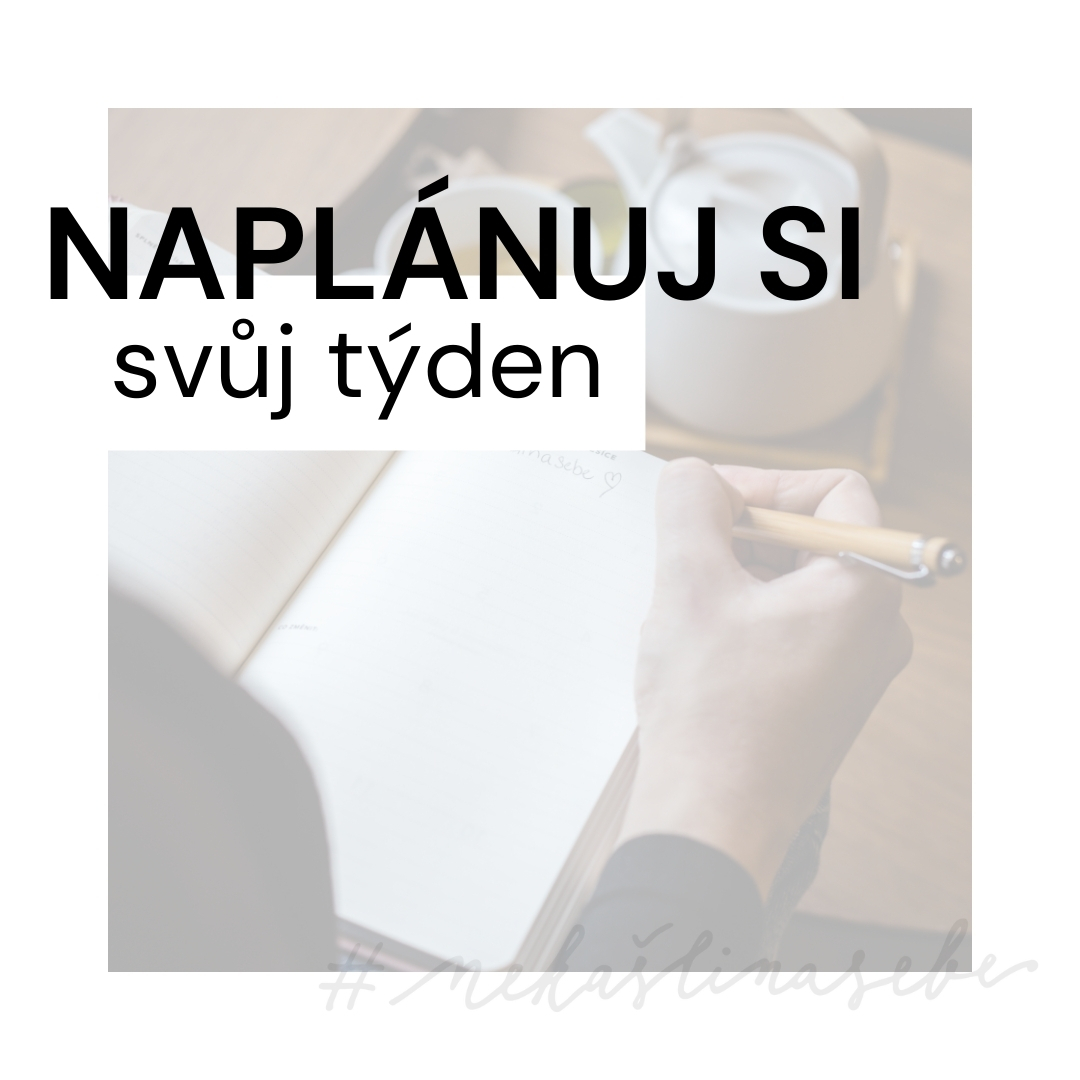
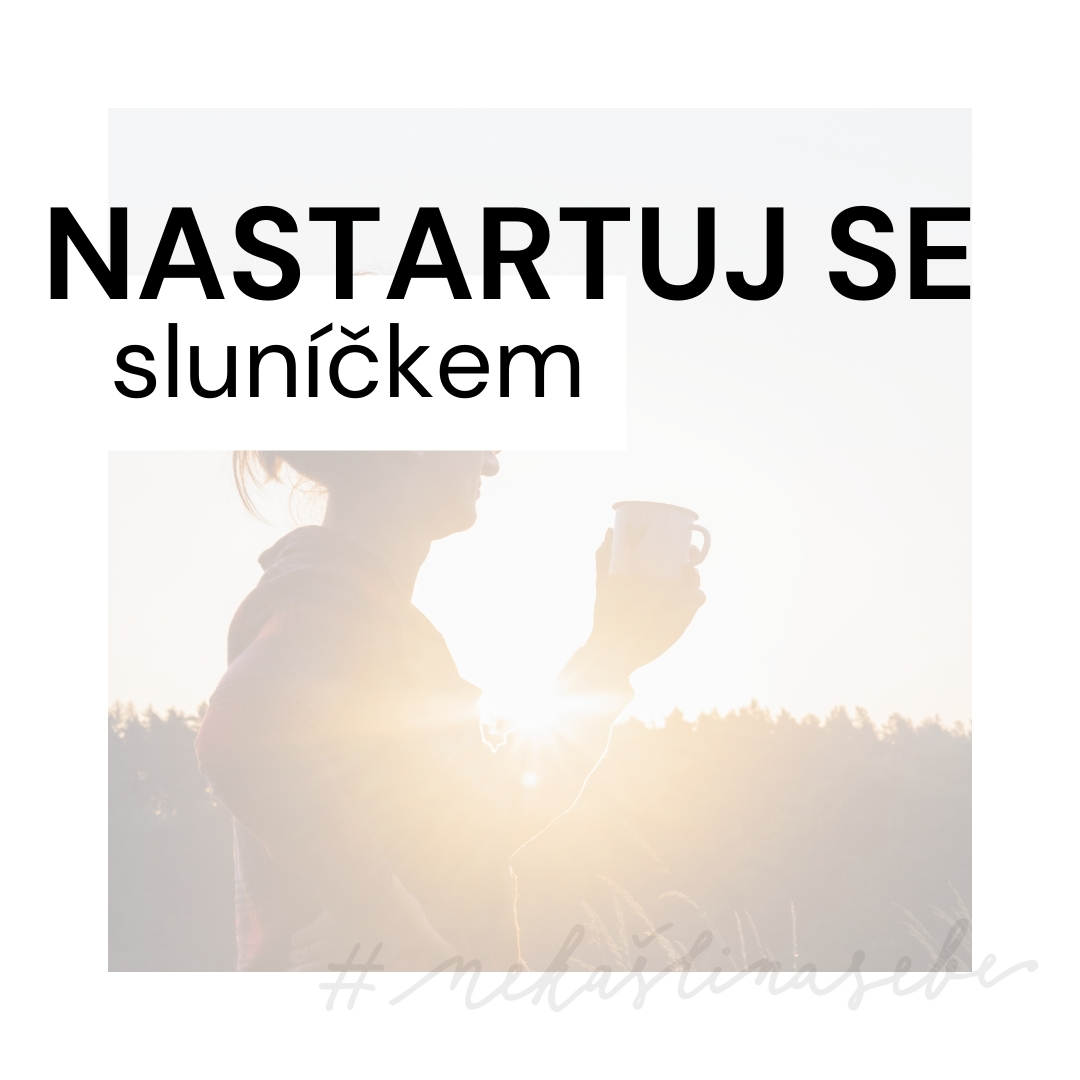
tip1

diff --git a/tips/24-17/tip1.html b/tips/24-17/tip1.html
@@ -81,11 +81,8 @@
         <div class="row mb-8 align-items-center">
           <div class="col-md-8,9" data-aos="fade-up">
             <h2>1.tip #nekaslinasebe</h2>
-            <p> Při pondělním tipu #nekaslinasebe si <b>společně naplánujeme týden</b>. Já vím. Někdy není úplně zábavné
-              si sednout a sepsat si vše, co chceme stihnout v aktuálním týdnu. Náš mozek i tělo má plán rád. Protože
-              <b>když ví, co ho čeká, dokáže lépe odhadnout, kolik energie bude potřebovat</b>. Takže tě dnes vyzívám,
-              ať si k sobě vezmeš papír/notebook/Ipad a kalendář. Zkus si sepsat, co tě v následujícím týdnu čeká.
-              <b>Nezapomeň ani na odpočinek a zabookuj si v kalendáři rovnou čas i pro sebe.</b>
+            <p> Dnešní tip #nekaslinasebe tě podpoří v <b>nastartování se ranním sluníčkem</b>. Vystavení se sluníčku na pár minut má skvělé účinky na naše <b><a href="https://www.ncbi.nlm.nih.gov/pmc/articles/PMC6751071/"
+              target="_blank">fyzické i psychické zdraví</a></b>. Postará se nám o to malinká struktura v našem mozku “suprachiasmatic nuclei”, která má na starost cirkadiánní rytmy. Je to párová struktura v našem hypothalamu. Přezdívá se jí “central master-clock”.  Ta se poté postará o to, že se ti <b>zlepší nálada, emoce a pozornost. Světlo přímo ovlivňuje naši náladu, spánek, naši schopnost probudit se a soustředit se, hladiny hormonů, imunitu a naši schopnost zvládat stres.</b> Je to opět jeden z “nástrojů”, které ti pomůžou k lepšímu fungování, ať už fyzicky, tak i psychicky. Tak si to užij.  
             </p>
             <p></p>
           </div>
@@ -103,33 +100,15 @@
                 <p class="mb-4"><span class="text-muted">Pokud máš:</span></p>
 
                 <div class="mb-5">
-                  <p><b>1 minutku</b>: Představ si v hlavě svůj týden a zapiš si do jednotlivých dní <b>nejdůležitější
-                      věci, které určitě potřebuješ stihnout</b> a přes které nejede vlak. </p>
-                  <p><b>5 minut</b>: Naplánuj si <b>přesně a konkrétně, co chceš a potřebuješ udělat každý den v
-                      týdnu</b>. Zamysli se, kolik času na dané věci (opravdu) potřebuješ. Pokud to u některých věcí
-                    jde, můžeš si k nim <b>přidat 5-10 minut navíc jako rezervu</b>. Když skončíš dřív, tím lépe. Až to
-                    budeš mít, připrav si 3 různé barvy. Zkusíme si z to-do listu na den udělat <b>trojbarevný
-                      to-do</b>. První barvou, třeba červenou, si označ věci, které musíš ve dni stihnout. Druhou
-                    barvou, třeba modrou, si označ věci, které by byly dobré ve dni stihnout. Když je ale nestihneš,
-                    protože ti do toho něco přijde nebo nebudeš mít energii, nic tak velkého se nestane. Třetí barvou,
-                    třeba zelenou, si označ věci, které můžeš ve dni udělat, ale vůbec nemusíš. Věci, které můžeš
-                    kdykoliv přesunout na jiný den nebo týden.</p>
-                  <p><b>15 minut</b>: Následuj 5ti minutový tip a <b>přidej si do každého dne 1 min, 5 min nebo 15 min
-                      pro sebe na své vlastní #nekaslinasebe</b>. Když mozek a tělo přesně ví, kdy si bude moct
-                    odpočinout (a ještě k tomu to vidí v týdenním/denním plánu), lépe pracuje s distribucí energie. </p>
+                  <p><b>1 minutku</b>: Až vstaneš, zkus jít na alespoň minutku ven, na terasu nebo na balkón a buď na sluníčku. </p>
+                  <p><b>5 minut</b>: Máš 5 minutek? Super. Projdi se na sluníčku, lehni si, zacvič si lehkou jógu nebo jen tak buď.</p>
+                  <p><b>15 minut</b>: Projdi se, napiš si deník, vypij si v klidu kávu nebo si jen tak lelkuj po ránu na sluníčku.</p>
                 </div>
               </div>
             </div>
           </div>
           <div class="col-md-12 ml-auto mt-3">
-            <p>PS: Na instagram mi přišel <b>zajímavý dotaz</b> ohledně tipů #nekaslinasebe: <b>“Je potřeba po
-                provedení tipu z výsledků dělat nějaké závěry, nebo k čemu tipy přesně slouží?”</b> Moje odpověď je
-              jednoduchá. <b>Není potřeba dělat závěry ani nic podobného.</b> Není potřeba na sebe tlačit. Chápu, že
-              je naše společnost aktuálně zaměřená na výkonnost a že přirozeně očekáváme “výstupy” z naší práce. Tipy
-              #nekaslinasebe se právě proti tomuto snaží bojovat. Jsou tu pro to, abychom se na chvilku <b>zastavili a
-                mysleli pár minutek na sebe. Bez souzení a hodnocení, jestli se hned (ne)cítíme lépe, jestli nám to
-                (ne)pomohlo</b> atd. Sebepéče a #nekaslinasebe není <b>sprint, je to maraton</b>. Budu ráda za další
-              zpětné vazby a názory. Hezké pondělí, Terka.</p>
+            <p><b>PS:</b> Dávej si <b>pozor na koukání se přímo do sluníčka!</b> Nezapomeň se o sebe postarat, vzít si brýle. Při přímém sluníčku stačí opravdu pár minut. Pokud je pod mrakem, doporučuje se být na sluníčku cca 10-15 minut. Rannímu sluníčku zdar. Zdravím, Terka. </p>
           </div>
           <div class="col-md-12 ml-auto mt-3">
             <p> Vše, co tu vidíš, děláme <b>zadarmo</b>. Kdybys nás chtěl/a podpořit, budeme rádi, když mrkneš na naše
